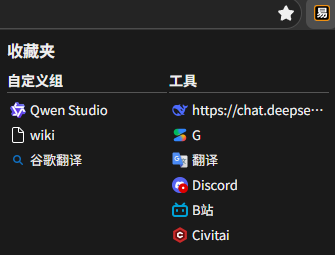
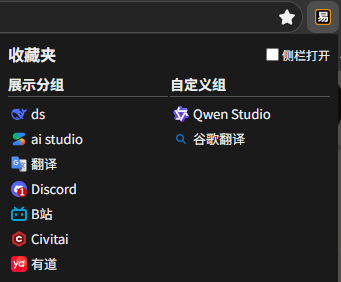
支持在侧栏中显示

diff --git a/part1/pag/sidepanel.js b/part1/pag/sidepanel.js
@@ -1,0 +1,112 @@
+var msg = document.getElementById('msg');
+var frame = document.getElementById('frame');
+var modeToggle = document.getElementById('modeToggle');
+var textToggle = document.getElementById('textToggle');
+var bookmarkBar = document.getElementById('bookmarkBar');
+
+var groupColors = [
+  'rgba(80,80,80,0.4)', 'rgba(100,70,70,0.4)', 'rgba(70,100,70,0.4)',
+  'rgba(70,70,100,0.4)', 'rgba(100,100,70,0.4)', 'rgba(100,70,100,0.4)', 'rgba(70,100,100,0.4)'
+];
+
+function faviconURL(u) {
+  var url = new URL(chrome.runtime.getURL('/_favicon/'));
+  url.searchParams.set('pageUrl', u);
+  url.searchParams.set('size', '32');
+  return url.toString();
+}
+
+function loadUrl(url) {
+  if (!url) return;
+  chrome.storage.local.remove('sidePanelUrl');
+  msg.style.display = 'none';
+  frame.style.display = 'block';
+  frame.src = url;
+}
+
+function applyUAMode(isMobile) {
+  if (isMobile) {
+    modeToggle.textContent = '📱';
+    modeToggle.classList.add('on');
+    frame.classList.add('mobile');
+  } else {
+    modeToggle.textContent = '🖥';
+    modeToggle.classList.remove('on');
+    frame.classList.remove('mobile');
+  }
+}
+
+function renderBookmarks() {
+  chrome.storage.local.get(['FavGroups', 'settings'], function(result) {
+    var groups = result.FavGroups || [{ name: '', items: [] }];
+    var settings = result.settings || {};
+    var popupIndices = settings.popupGroups;
+    var showText = settings.sidebarShowText === true;
+
+    textToggle.classList.toggle('on', showText);
+
+    var visibleGroups = [];
+    if (popupIndices && popupIndices.length > 0) {
+      popupIndices.forEach(function(idx) {
+        if (groups[idx]) visibleGroups.push(groups[idx]);
+      });
+    } else {
+      visibleGroups = [groups[0]];
+    }
+
+    bookmarkBar.innerHTML = '';
+
+    visibleGroups.forEach(function(group, gi) {
+      (group.items || []).forEach(function(item) {
+        var el = document.createElement('div');
+        el.className = 'bookmark-item';
+        el.style.backgroundColor = groupColors[gi % groupColors.length];
+
+        var img = document.createElement('img');
+        img.src = item.icon || faviconURL(item.url);
+        img.alt = '';
+        el.appendChild(img);
+
+        if (showText) {
+          var span = document.createElement('span');
+          span.className = 'bookmark-text';
+          span.textContent = item.title;
+          el.appendChild(span);
+        }
+
+        el.addEventListener('click', function() { loadUrl(item.url); });
+        bookmarkBar.appendChild(el);
+      });
+    });
+  });
+}
+
+modeToggle.addEventListener('click', function() {
+  var isMobile = modeToggle.classList.contains('on');
+  applyUAMode(!isMobile);
+  chrome.runtime.sendMessage({ action: 'setUAMode', isMobile: !isMobile });
+});
+
+textToggle.addEventListener('click', function() {
+  chrome.storage.local.get('settings', function(result) {
+    var s = result.settings || {};
+    s.sidebarShowText = !s.sidebarShowText;
+    chrome.storage.local.set({ 'settings': s }, function() {
+      renderBookmarks();
+    });
+  });
+});
+
+chrome.storage.local.get(['sidePanelUrl', 'uaMobile', 'FavGroups', 'settings'], function(result) {
+  var isMobile = result.uaMobile !== false;
+  applyUAMode(isMobile);
+  renderBookmarks();
+  loadUrl(result.sidePanelUrl);
+});
+
+chrome.storage.onChanged.addListener(function(changes, area) {
+  if (area !== 'local') return;
+  if (changes.sidePanelUrl) loadUrl(changes.sidePanelUrl.newValue);
+  if (changes.uaMobile) applyUAMode(changes.uaMobile.newValue);
+  if (changes.FavGroups || changes.settings) renderBookmarks();
+});

diff --git a/part1/pag/sidepanel.html b/part1/pag/sidepanel.html
@@ -1,0 +1,30 @@
+<!DOCTYPE html>
+<html><head>
+<meta charset="utf-8">
+<style>
+* { margin: 0; padding: 0; box-sizing: border-box; }
+html, body { width: 100%; height: 100%; overflow: hidden; background: #1a1a1a; color: #eee; font-family: sans-serif; }
+#toolbar { display: flex; align-items: center; padding: 2px 4px; background: #222; border-bottom: 1px solid #444; gap: 4px; height: 30px; flex-shrink: 0; }
+.toolbar-btn { background: none; color: #ccc; border: 1px solid #555; cursor: pointer; padding: 2px 5px; font-size: 11px; border-radius: 3px; white-space: nowrap; flex-shrink: 0; height: 22px; line-height: 16px; }
+.toolbar-btn:hover { background: #444; }
+.toolbar-btn.on { border-color: #0af; color: #0af; }
+#bookmarkBar { display: flex; align-items: center; gap: 2px; overflow-x: auto; flex: 1; height: 100%; }
+#bookmarkBar::-webkit-scrollbar { display: none; }
+.bookmark-item { display: flex; align-items: center; gap: 2px; padding: 2px 3px; cursor: pointer; border-radius: 3px; flex-shrink: 0; height: 22px; }
+.bookmark-item:hover { opacity: 0.85; box-shadow: 0 0 0 1px #0af; }
+.bookmark-item img { width: 16px; height: 16px; flex-shrink: 0; }
+.bookmark-text { font-size: 11px; max-width: 5em; overflow: hidden; white-space: nowrap; color: #bbb; margin-left: 1px; }
+#frame { width: 100%; height: calc(100% - 30px); border: none; }
+#frame.mobile { margin: 0 auto; display: block; }
+#msg { display: flex; align-items: center; justify-content: center; height: calc(100% - 30px); font-size: 14px; }
+</style>
+</head><body>
+<div id="toolbar">
+  <div id="bookmarkBar"></div>
+  <button class="toolbar-btn" id="modeToggle" title="移动端/pc端界面">📱</button>
+  <button class="toolbar-btn" id="textToggle" title="显示文字">A</button>
+</div>
+<div id="msg">选择一个页面打开...<br>- 作为edge取消侧栏固定功能的替代项<br><br>- 受限于浏览器和网站对iframe的限制，并不总能正确显示网站。<br>- 顶部地址栏由设置中选中的组决定。<br><br>- 📱切换手机/pc模式<br>- A 显示文本标签</div>
+<iframe id="frame"></iframe>
+<script src="sidepanel.js"></script>
+</body></html>

diff --git a/part1/pag/popup.js b/part1/pag/popup.js
@@ -11,6 +11,10 @@ function renderPopup() {
     var settings = result.settings || {};
     document.documentElement.classList.toggle('light', !!settings.lightMode);
 
+    var sidePanelEnabled = settings.sidePanelEnabled;
+    if (sidePanelEnabled === undefined) sidePanelEnabled = true;
+    document.getElementById('sidePanelToggle').checked = sidePanelEnabled;
+
     var popupIndices = settings.popupGroups;
     var visibleGroups = [];
     if (popupIndices && popupIndices.length > 0) {
@@ -43,6 +47,16 @@ function renderPopup() {
           a.className = 'group-item';
           a.href = item.url;
           a.target = '_blank';
+          a.addEventListener('click', function(e) {
+            if (document.getElementById('sidePanelToggle').checked) {
+              e.preventDefault();
+              chrome.storage.local.set({ sidePanelUrl: item.url }, function() {
+                chrome.windows.getCurrent(function(win) {
+                  chrome.sidePanel.open({ windowId: win.id });
+                });
+              });
+            }
+          });
           var img = document.createElement('img');
           img.src = item.icon || faviconURL(item.url);
           img.alt = '';
@@ -57,5 +71,13 @@ function renderPopup() {
     });
   });
 }
+
+document.getElementById('sidePanelToggle').addEventListener('change', function() {
+  chrome.storage.local.get('settings', function(result) {
+    var s = result.settings || {};
+    s.sidePanelEnabled = document.getElementById('sidePanelToggle').checked;
+    chrome.storage.local.set({ 'settings': s });
+  });
+});
 
 renderPopup();

diff --git a/part1/background.js b/part1/background.js
@@ -1,0 +1,42 @@
+const MOBILE_UA = 'Mozilla/5.0 (Linux; Android 14) AppleWebKit/537.36 (KHTML, like Gecko) Chrome/120.0.0.0 Mobile Safari/537.36';
+
+const MOBILE_RULE = {
+  id: 1,
+  priority: 1,
+  action: {
+    type: 'modifyHeaders',
+    requestHeaders: [{ header: 'User-Agent', operation: 'set', value: MOBILE_UA }]
+  },
+  condition: { resourceTypes: ['sub_frame'], urlFilter: '*' }
+};
+
+async function setUAMode(isMobile) {
+  if (isMobile) {
+    await chrome.declarativeNetRequest.updateSessionRules({ addRules: [MOBILE_RULE] });
+  } else {
+    await chrome.declarativeNetRequest.updateSessionRules({ removeRuleIds: [1] });
+  }
+  await chrome.storage.local.set({ uaMobile: isMobile });
+}
+
+chrome.runtime.onInstalled.addListener(async function() {
+  await chrome.sidePanel.setPanelBehavior({ openPanelOnActionClick: false }).catch(function() {});
+  var result = await chrome.storage.local.get('uaMobile');
+  if (result.uaMobile !== false) {
+    await setUAMode(true);
+  }
+});
+
+chrome.runtime.onStartup.addListener(async function() {
+  var result = await chrome.storage.local.get('uaMobile');
+  if (result.uaMobile !== false) {
+    await setUAMode(true);
+  }
+});
+
+chrome.runtime.onMessage.addListener(function(request, sender, sendResponse) {
+  if (request.action === 'setUAMode') {
+    setUAMode(request.isMobile).then(function() { sendResponse({ success: true }); });
+    return true;
+  }
+});

diff --git a/part1/pag/popup.html b/part1/pag/popup.html
@@ -70,11 +70,22 @@ html.light .header button:hover { background: #c8c8c8; }
 html.light .group-item:hover { background: #d0d0d0; }
 html.light .group h2 { border-bottom-color: #ccc; }
 html.light .empty { color: #aaa; }
+.side-toggle {
+  display: flex;
+  align-items: center;
+  gap: 3px;
+  font-size: 12px;
+  cursor: pointer;
+  color: #eee;
+  user-select: none;
+}
+html.light .side-toggle { color: #333; }
 </style>
 </head>
 <body>
 <div class="header">
   <h1>收藏夹</h1>
+  <label class="side-toggle"><input type="checkbox" id="sidePanelToggle" checked> 侧栏打开</label>
   </div>
 <div class="groups" id="groupsContainer"></div>
 <script src="popup.js"></script>

diff --git a/part1/pag/ntp.js b/part1/pag/ntp.js
@@ -1065,6 +1065,12 @@ function init() {
     if (document.getElementById('Div_history_hid').style.display === 'block') loadHistory('');
   });
 
+  document.getElementById('Div_sidepanel').addEventListener('click', function() {
+    chrome.windows.getCurrent(function(win) {
+      chrome.sidePanel.open({ windowId: win.id });
+    });
+  });
+
   document.getElementById('btnok').addEventListener('click', addLink);
   document.getElementById('btncancel').addEventListener('click', closeInputWindow);
   document.getElementById('btndelete').addEventListener('click', function() {

diff --git a/part1/pag/ntp.html b/part1/pag/ntp.html
@@ -14,6 +14,9 @@
   <div id="Div_history_icon" title="历史记录">
     <svg viewBox="0 0 24 24" width="22" height="22"><path fill="#ccc" d="M11.99 2C6.47 2 2 6.48 2 12s4.47 10 9.99 10C17.52 22 22 17.52 22 12S17.52 2 11.99 2zM12 20c-4.42 0-8-3.58-8-8s3.58-8 8-8 8 3.58 8 8-3.58 8-8 8zm.5-13H11v6l5.25 3.15.75-1.23-4.5-2.67z"/></svg>
   </div>
+  <div id="Div_sidepanel" title="侧栏">
+    <svg viewBox="0 0 24 24" width="22" height="22"><path fill="#ccc" d="M3 3h18v18H3V3zm2 2v14h3V5H5zm5 0v14h11V5H10z"/></svg>
+  </div>
 </div>
 
 <div id="Div_seting_hid">

diff --git a/readme.md b/readme.md
@@ -1,7 +1,6 @@
 ## 简易起始页
 
 个人使用的简单浏览器新标签页主页插件。
-
 ![alt text](other/themed2.png)  
 
 ### 核心理念
@@ -17,11 +16,11 @@
 
 **最近**  
 因为edge侧栏禁止固定网站了，所以想着是否有办法绕过限制。  
-很遗憾发现插件限制很大，不能代替书签，不能打开内部chrome/edge开头网页。  
-因为插件需要在不同位置点两到三次，代替书签不实用，且功能上弱于书签。  
+很遗憾发现插件限制很大，不能代替书签，不能打开内部chrome/edge开头网页。
+可以使用iframe打开网页，但多数网页对此有限制。  
+因为插件需要在不同位置点两到三次，和各种受限，代替侧栏或书签不实用，且功能上弱于书签。   
 因此边踩坑边完善一下插件基础功能。  
 <img width="60%" src="other/edgel.png">
-  
 
 ### 功能
 最近访问 - 这是浏览器api自动生成的。会在清缓存时清除。  
@@ -33,14 +32,16 @@
 壁纸 - 可以使用本地图像，设置显示模式，并做了压缩。  
 导入导出收藏 - 使用简单的markdown格式  
 设置点击插件图标时显示的组 - 意义不大  
-![alt text](other/pop.png)
+<img width="50%" src="other/pop.png">  
+侧栏 - 展开侧栏和在侧栏中打开网页。
+![alt text](other/clmn.png)  
 
 ### 使用
 
 ![alt text](other/img1.png)
 
-因为自用，目前没有发布计划。  
-在浏览器插件页面加载解压的插件即可。  
+因为自用，而且受限太多，目前没有发布计划。  
+在浏览器插件页面加载解压的插件即可。  
 缺点是浏览器不希望这么使用插件，每两周浏览器会弹次提示。
 
 亮色主题+设置(设置和历史在右上角,不显眼)
